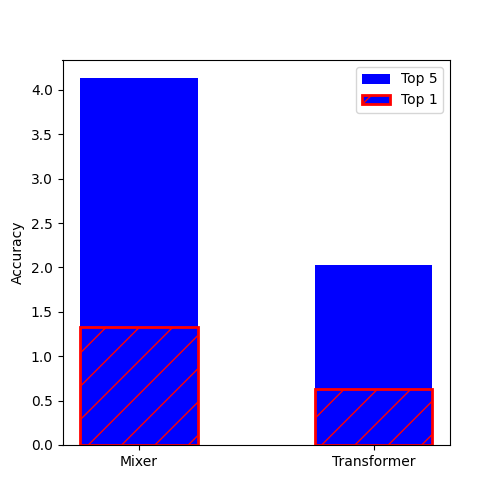
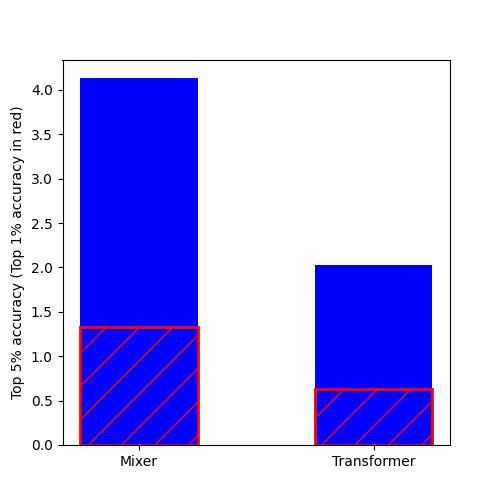
Improved figures and validation

Changed region(s): [[0.0, 0.21, 0.06, 0.81], [0.72, 0.12, 0.9, 0.24]]

diff --git a/training/testModel.py b/training/testModel.py
@@ -3,7 +3,6 @@ from accelerate import Accelerator
 from clip.validation import ImageNetValidator, CosineSimValidator
 from clip import clip
 from clip.model import CLIP
-from torch import backends
 
 class TestModel():
     def __init__(self):
@@ -11,8 +10,19 @@ class TestModel():
         # self.device = "mps" if backends.mps.is_available() else "cpu"
 
         print("Prepare the model")
-        model = CLIP(embed_dim=512, image_resolution=224, vision_layers=12, vision_width=768, vision_patch_size=32,
-                 transformer_layers=12, transformer_width=512, transformer_heads=8, vocab_size=49408, context_length=77)
+        model = CLIP(
+            embed_dim=512,
+            image_resolution=224,
+            vision_layers=12,
+            vision_width=768,
+            vision_patch_size=32,
+            transformer_layers=12,
+            transformer_width=512,
+            transformer_heads=8,
+            vocab_size=49408,
+            context_length=77,
+            useTransformer=True,
+        )
 
         self.preprocess = clip._transform(model.visual.input_resolution)
 
@@ -26,17 +36,17 @@ class TestModel():
 
         # Validate the model
         print("Prepare the validators")
-        self.imageNetValidator = ImageNetValidator(self, self.preprocess, self.accelerator.device, None)
+        # self.imageNetValidator = ImageNetValidator(self, self.preprocess, self.accelerator.device, None)
         self.cosineValidator = CosineSimValidator(self, self.accelerator.device, None)
 
         print("Validate the model")
-        self.imageNetValidator.validate(0, True)
+        # self.imageNetValidator.validate(0, True)
         self.cosineValidator.validate(0, True)
 
         
 
     def load_model(self):
-        self.accelerator.load_state(os.path.join("outputs", "clip_testsave"))
+        self.accelerator.load_state(os.path.join("outputs", "clip_transformer_2"))
         self.accelerator.wait_for_everyone()
 
 

diff --git a/tests/clipFigures.py b/tests/clipFigures.py
@@ -5,27 +5,33 @@ import numpy as np
 def clipFigures():
     top1Perf = [1.33, 0.63]
     top5Perf = [4.13, 2.03]
-    cosinePerf = [0.571, 0.4928]
+    cosinePerf = [[0.562, 0.320, 0.441, 0.414, 0.367, 0.569], 0.4928]
+    cosinePerf = [np.mean(cosinePerf[0]), cosinePerf[1]]
+
+    # Print the relative improvement of Mixer over Transformer
+    print("Relative improvement of Mixer over Transformer")
+    print("Top 1:", top1Perf[0] / top1Perf[1] )
+    print("Top 5:", top5Perf[0] / top5Perf[1] )
+    print("Cosine:", cosinePerf[0] / cosinePerf[1])
 
 
     # Bar chart for the 3 top perfs side by side
     fig, ax = plt.subplots(figsize=(5, 5))
     barWidth = 0.1
-    plt.bar([0, 0.2], top5Perf, color="blue", width=barWidth, label="Top 5")
-    plt.bar([0, 0.2], top1Perf, edgecolor="red", color="blue", width=barWidth, label="Top 1", hatch='/', lw=2.)
+    plt.bar([0, 0.2], top5Perf, color="blue", width=barWidth)
+    plt.bar([0, 0.2], top1Perf, edgecolor="red", color="blue", width=barWidth, hatch='/', lw=2.)
     # plt.bar([4, 5], cosinePerf, color="blue", width=barWidth, label="Cosine")
     plt.xticks([0, 0.2], ["Mixer", "Transformer"])
-    plt.ylabel("Accuracy")
-    plt.legend()
+    plt.ylabel("Top 5% accuracy (Top 1% accuracy in red)")
     plt.savefig("clipImagenet.png")
     plt.show()
 
     # Bar chart of the cosine perf
     fig, ax = plt.subplots(figsize=(5, 5))
     barWidth = 0.1
-    plt.bar([0, 0.2], cosinePerf, color="blue", width=barWidth, label="Cosine")
+    plt.bar([0, 0.2], cosinePerf, color="blue", width=barWidth)
     plt.xticks([0, 0.2], ["Mixer", "Transformer"])
-    plt.ylabel("Accuracy")
+    plt.ylabel("Average SRCC")
     plt.legend()
     plt.savefig("clipSTSCosine.png")
     plt.show()

diff --git a/training/clip/validation.py b/training/clip/validation.py
@@ -201,7 +201,7 @@ class CosineSimValidator():
         cosineSimilarities = []
         truth = []
 
-        for batch in DataLoader(dataset, batch_size=32):
+        for batch in tqdm(DataLoader(dataset, batch_size=32)):
             text1, text2, label = batch
             text1 = clip.tokenize(text1, truncate=True).to(self.device)
             text2 = clip.tokenize(text2, truncate=True).to(self.device)
